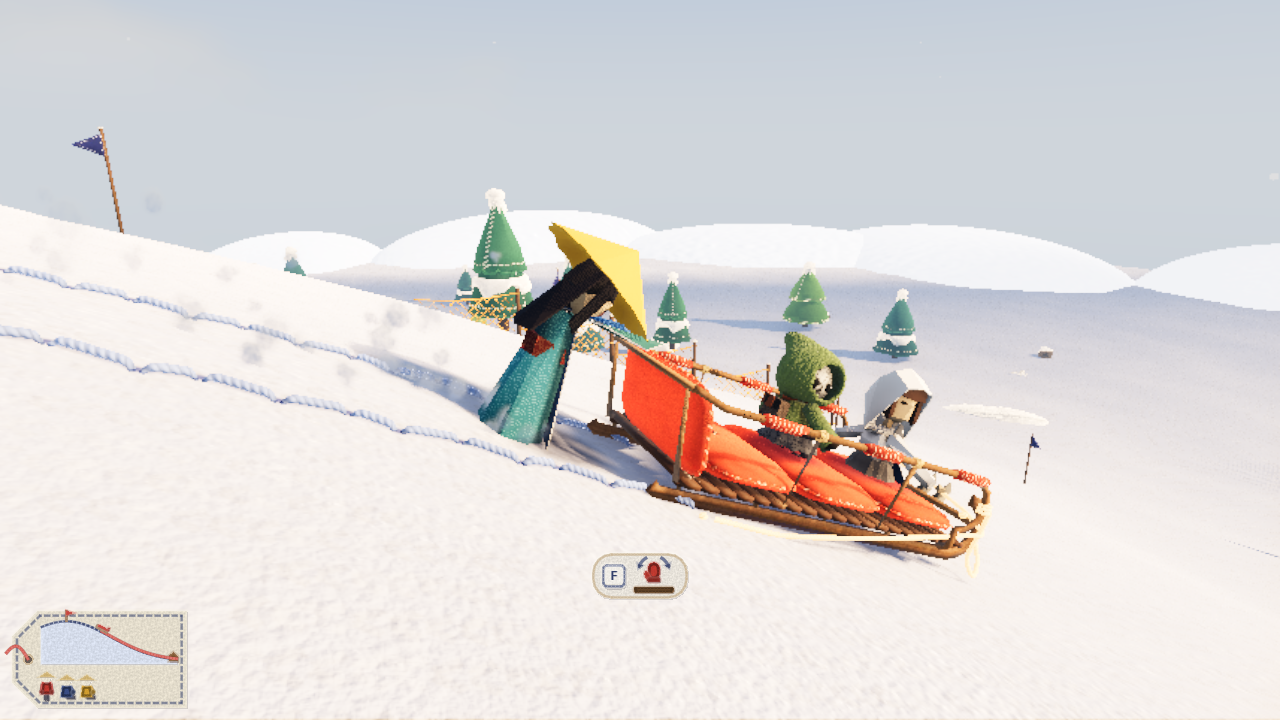
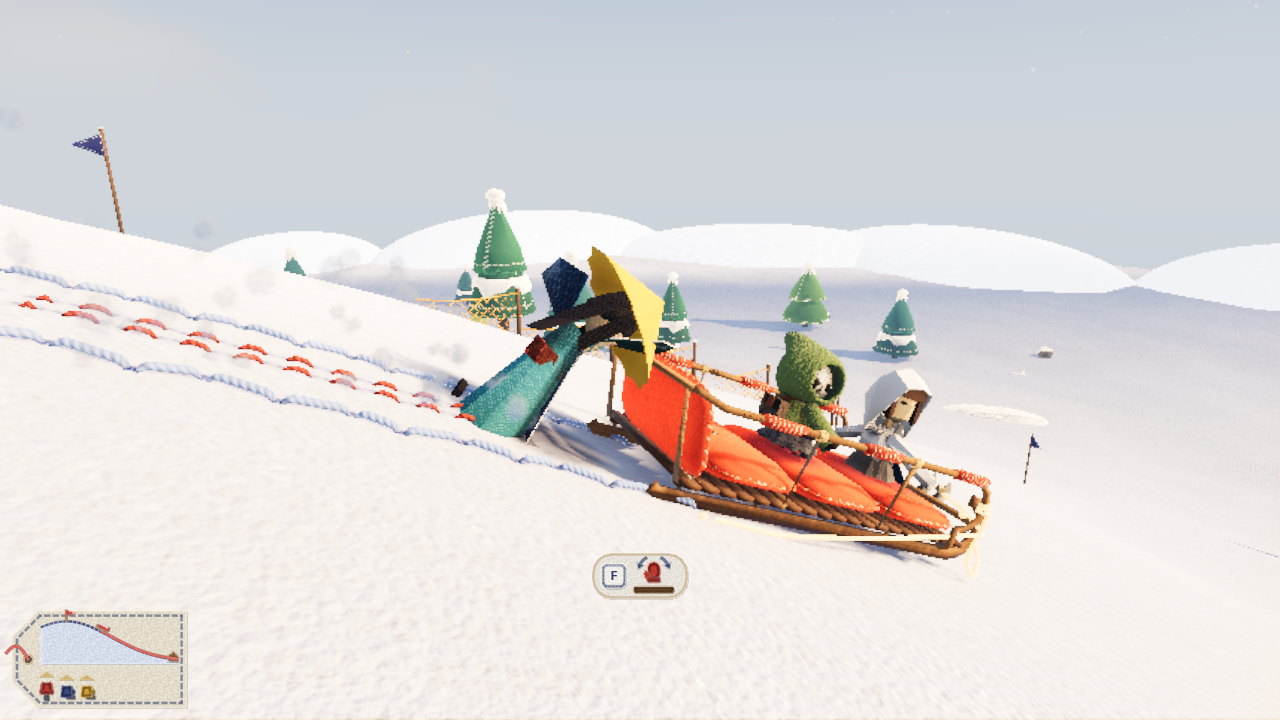
引きずられているときの体勢を大きく崩し、かかとに「ぐし縫いのギャザー」の引きずられ跡を残す
- 代表「引きずられてるときもっと体制崩してほしい」: 体ごと前のめり、片足を突っ張りもう片足は膝が折れる、
  左右によろける、左手はソリを離して宙をかく、1 秒ちょっとごとに膝ががくっと抜ける。一人称も傾き・沈み・左の袖が宙をかく
- 代表「引きずられ跡用のステッチを新しく作ってほしい」: かかと 2 本の線に、赤茶の毛糸の短いなみ縫いと、
  目のまわりに雪の編み地が縫い縮められて寄ったひだ（look.gd の gather_stitch_mesh）。速いほどひだが濃い
- 雪がとても明るいので、ひだの乗算は深い影の青にした（薄い青では白く飛んで見えなかった）
- 米袋 1 kg・小の席 6 cm は main の値のまま。設計書に小の席の一行を足した

Changed region(s): [[0.0, 0.3056, 0.5312, 0.6417], [0.375, 0.3361, 0.4062, 0.3667], [0.2812, 0.4278, 0.3125, 0.4583]]

diff --git a/design/controls-and-physics.md b/design/controls-and-physics.md
@@ -54,6 +54,7 @@
 | large | サンタが乗るような大きなそり（8 人） | 220 kg | 8（横 2 × 縦 4） | 2.2 × 4.8 m |
 
 - 米袋の重さ 1 kg（代表が決めた、2026-10-29）は、止める計算（下）の重さに入れる値。物理の体は揺れないよう 15 kg（`BODY_MIN_MASS`）として動かし、止める力は「本当の重さ（袋 1 kg ＋ 乗る人）」との比で弱めてかける
+- 小の席は、成形ソリの座る面に合わせて低い（雪から 6 cm。glb に合わせた）
 - 滑り木の抵抗・体重移動で曲がる効き・雪をかく力は、重さに比べて中と同じ効きにしている（大きなソリも小さなソリも、曲がり方は同じ）
 
 ## ずり落ちと引きずり（2026-10-29）
@@ -63,7 +64,11 @@
 - **手を離すとずり落ちる**：誰もつかんでいない・乗っていない空のソリは、坂の傾きが `SLIDE_GRIP` より急な所でひとりでに下へ滑る。乗っていないと雪に食い込むので、乗ったときよりずっと遅い（`SLIDE_DAMP`）。ふもとの緩い所（頂上から約 50 m）で止まる。頂上のまわり（約 5 m まで）は緩いので留まる
   - 最初と R で戻したときのソリは「止めてある」（`parked`）。誰かが触れるまでずり落ちない（始まってすぐソリが逃げないように）
 - **雪玉で手を離す**：縁をつかんでいる・押している・紐を持っている人に雪玉が当たると、びっくりして手を離す。止めるには、もう一度 F でつかむ。仲間は 1.5 秒（`bot.gd` の `REGRAB_WAIT`）たつとつかみ直しに行く。乗っている人は降ろさない
-- **引きずられる**：`DRAG_SPEED` より速く下っているソリをつかむと、引きずられる。その間は押せず（W は効かない）、ひとりでに踏ん張って止める力（一人 `STOP_FORCE`）がかかる。片足を前へ突っ張り、体はソリへ引かれて前に傾き、足もとから綿の雪の粉が舞い、かかとが雪をすべる「ざざざ」が鳴る。一人称の目は低く前へ出て、雪のでこぼこで小さく揺れる。HUD は「F 手を離す」のワッペンだけ
+- **引きずられる**：`DRAG_SPEED` より速く下っているソリをつかむと、引きずられる。その間は押せず（W は効かない）、ひとりでに踏ん張って止める力（一人 `STOP_FORCE`）がかかる。HUD は「F 手を離す」のワッペンだけ
+  - 体勢が崩れる（2026-10-29 代表「もっと体勢崩してほしい」）: 体ごとソリへ前のめりに引かれ、片足を前へ突っ張ってかかとですべり、もう片足は後ろに残って膝が折れる。左右によろけ、左手はソリを離して宙をかき、右手だけでしがみつく。1 秒ちょっとごとに膝ががくっと抜けて沈む（人形の 12 コマで刻む）
+  - 一人称: 目が低く前へ出て、左右によろけて傾き、膝が抜けるたびに沈む。左の袖は画面の左上で宙をかく。設定の「視点の揺れ」を切ると弱くなる
+  - 足もとから綿の雪の粉が舞い、かかとが雪をすべる「ざざざ」が鳴る
+  - **引きずられ跡のステッチ**: かかと 2 本の線に、赤茶の毛糸の「ぐし縫いのギャザー」を残す。短いなみ縫いの目のまわりに、雪の編み地が縫い縮められて寄ったひだができる。速く引きずられるほどひだが濃い。ソリの滑りあと（青いジグザグ）と見分けられる（`look.gd` の `gather_stitch_mesh`、`sled.gd` の `_update_heel_stitches`。見本帳は `props/stitches.md`）
 - **止まるか**：止める人の力の合計が「ソリと乗っている人の重さ × 坂」に勝てば、だんだん遅くなり、`DRAG_STOP_SPEED` まで落ちたら踏みとどまって静止摩擦で留まる。負ければ引きずられ続け、`DRAG_MAX_DIST` 引きずられると手が離れる。`DRAG_SLIP_SPEED` より速いソリは、つかんでもすぐ手が離れる
   - 乗っている人の重さ（一人 `RIDER_MASS`）は、止めるときだけ数える。登りは前と同じく、乗る人で速くも遅くもならない（「人が加わるほど速く登れる」を守るため）
   - 止める力はソリがまとめて計算する（通信ではホストがソリと一緒に計算して配る）。人の側は「引きずられているか」を読んで、姿勢と音を変えるだけ
@@ -100,7 +105,7 @@
 | ソリ | 乗る人 | 止める人 1 | 止める人 2 | 止める人 3 |
 |---|---|---|---|---|
 | 米袋 | 0 | すぐ止まる | すぐ止まる | すぐ止まる |
-| 米袋 | 1 | 2.9 m・1.3 秒 | 1.2 m・0.7 秒 | 0.8 m・0.5 秒 |
+| 米袋 | 1 | 3.0 m・1.3 秒 | 1.3 m・0.7 秒 | 0.8 m・0.5 秒 |
 | 小 | 0 | すぐ止まる | すぐ止まる | すぐ止まる |
 | 小 | 1 | 4.6 m・1.9 秒 | 1.7 m・0.8 秒 | 1.1 m・0.6 秒 |
 | 小 | 2 | 止まらない（15 m・4.2 秒で離れる） | 3.7 m・1.5 秒 | 2.1 m・0.9 秒 |
@@ -114,10 +119,13 @@
 
 米袋は 2 人以上、小は 3 人は乗れない（席がない）。中に乗る人 1〜3 を、頂上から 22 m（7.2 m/s）でつかむと: 1 人乗りは止める人 2 で 7.1 m、3 で 4.0 m。2 人乗りは 2 で 13.1 m、3 で 6.6 m。3 人乗りは 3 で 10.1 m（2 では止まらない）。30 m（8.9 m/s）では速すぎて、何人でもすぐ手が離れる。
 
-一人称で引きずられている場面（頂上から 15 m でつかんだ 0.8 秒後、4.8 m/s）と、横から見た姿勢:
+米袋は 1 kg にしてから測り直した（0 kg のときは 2.9 m・1.2 m・0.8 m）。
+
+一人称で引きずられている場面（頂上から 15 m でつかんだ 0.8 秒後、4.8 m/s）と、横から見た姿勢、後ろ上から見たかかとの引きずられ跡（つかんで 2 秒）:
 
 ![一人称](sled-drag/fp-dragged.png)
 ![横から](sled-drag/side-dragged.png)
+![引きずられ跡](sled-drag/heel-stitches.png)
 
 ### 決めていないこと
 

diff --git a/props/stitches.md b/props/stitches.md
@@ -25,6 +25,13 @@
 | `feather` | フェザーステッチ | 左右に枝分かれする羽根 | 差し替え |
 | `garden` | 花の蔓 | 波打つ茎（ステムステッチ）に 5 枚の花びらの花（レゼーデージー）と葉、花の芯はフレンチノット。赤・緑・山吹の 3 色 | 報酬・買い物 |
 
+## ゲームの中の跡（Godot。2026-10-29）
+
+| 名前 | 縫い目 | 見え方 | 使いどころ |
+|---|---|---|---|
+| 滑りあと | 太い 2 本撚りのジグザグ | 雪より濃い毛糸の青。左右の滑り木の 2 本 | ソリが滑った跡（`look.gd` の `stitch_mesh`） |
+| 引きずられ跡 | ぐし縫いのギャザー | 赤茶の毛糸の短いなみ縫いが、かかとの 2 本の線に並ぶ。目のまわりの雪の編み地が縫い縮められ、ひだが寄る。速く引きずられるほどひだが濃い | 速いソリをつかんで引きずられた人のかかとの跡（`look.gd` の `gather_stitch_mesh`）。絵は `design/sled-drag/heel-stitches.png` |
+
 ## これから作る候補（調べてためる）
 
 丈夫さ（太い・詰んだ・重ねた）と、飾り（花・模様・色数）の 2 つの軸で並べる。丈夫なものは重いソリの標準や上位の差し替えに、飾りのものは報酬に向く。
